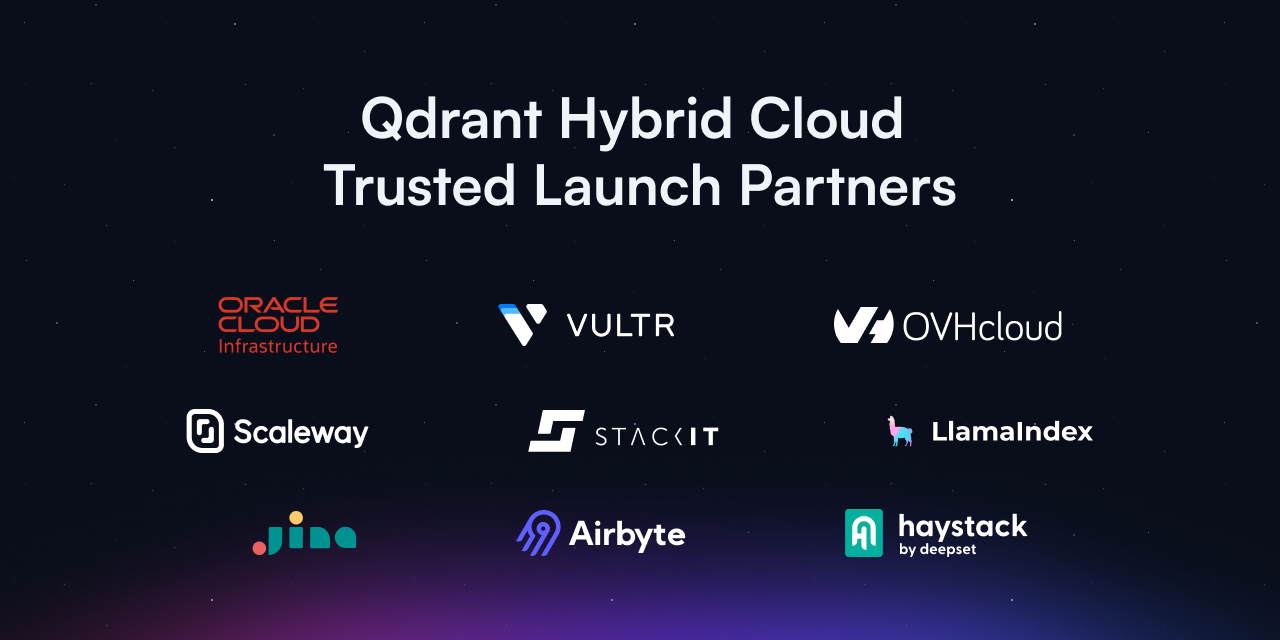
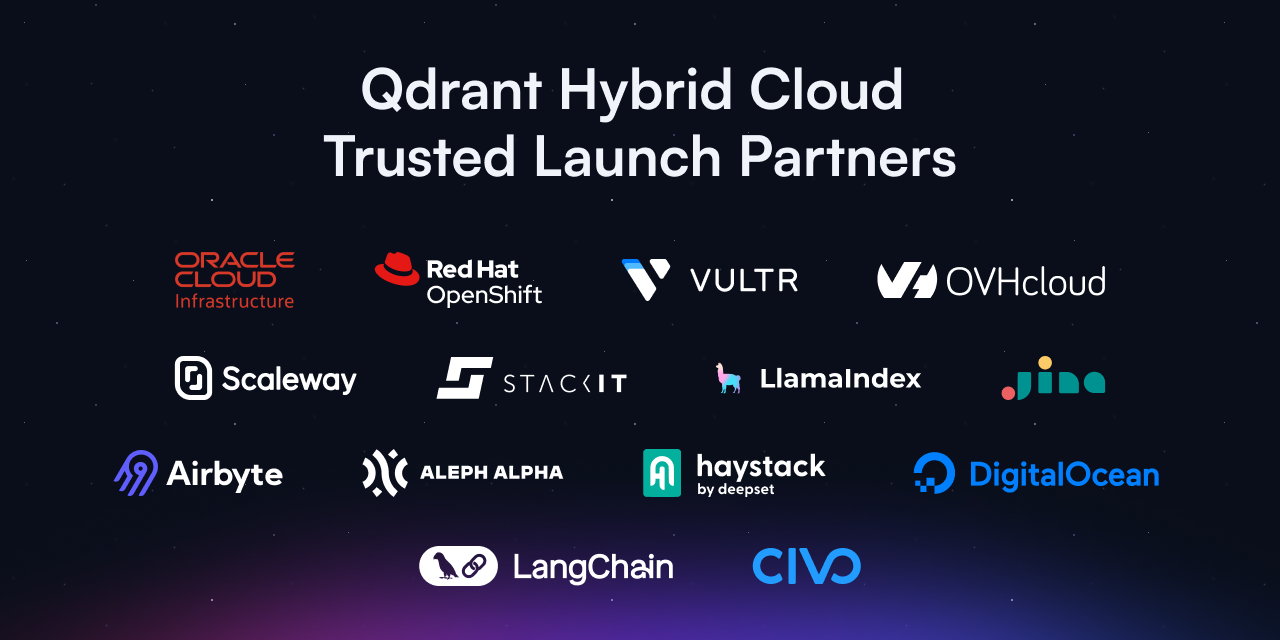
fix blog details and partner images

diff --git a/qdrant-landing/content/blog/hybrid-cloud.md b/qdrant-landing/content/blog/hybrid-cloud.md
@@ -13,7 +13,7 @@ tags:
   - Hybrid Cloud
 ---
 
-We are excited to announce the official launch of **Qdrant Hybrid Cloud** today, a significant leap forward in the field of vector search and enterprise AI. Rooted in our open-source origin, we are committed to offering our users and customers unparalleled control and sovereignty over their data and vector search workloads. Qdrant Hybrid Cloud stands as the industry's first managed vector database that can be deployed in any environment - be it cloud, on-premise, or the edge. 
+We are excited to announce the official launch of [Qdrant Hybrid Cloud](https://hybrid-cloud.qdrant.tech/) today, a significant leap forward in the field of vector search and enterprise AI. Rooted in our open-source origin, we are committed to offering our users and customers unparalleled control and sovereignty over their data and vector search workloads. Qdrant Hybrid Cloud stands as **the industry's first managed vector database that can be deployed in any environment** - be it cloud, on-premise, or the edge. 
 
 <p align="center"><iframe width="560" height="315" src="https://www.youtube.com/embed/gWH2uhWgTvM" title="YouTube video player" frameborder="0" allow="accelerometer; autoplay; clipboard-write; encrypted-media; gyroscope; picture-in-picture; web-share" allowfullscreen></iframe></p>
 
@@ -37,9 +37,9 @@ Let’s explore these aspects in more detail:
 
 Qdrant Hybrid Cloud, powered by our seamless Kubernetes-native architecture, is the first managed vector database engineered for unparalleled deployment flexibility. This means that regardless of where you run your AI applications, you can now enjoy the benefits of a fully managed Qdrant vector database, simplifying operations across any cloud, on-premise, or edge locations. 
 
-For this launch of Qdrant Hybrid Cloud, we are proud to collaborate with key cloud providers, including **Oracle Cloud Infrastructure (OCI)**, [Red Hat OpenShift](/blog/hybrid-cloud-red-hat-openshift/), [Vultr](/blog/hybrid-cloud-vultr/), [DigitalOcean](/blog/hybrid-cloud-digitalocean/), [OVHcloud](/blog/hybrid-cloud-ovhcloud/), [Scaleway](/blog/hybrid-cloud-scaleway/), and [STACKIT](/blog/hybrid-cloud-stackit/). These partnerships underscore our commitment to delivering a versatile and robust vector database solution that meets the complex deployment requirements of today's AI applications.
+For this launch of Qdrant Hybrid Cloud, we are proud to collaborate with key cloud providers, including [Oracle Cloud Infrastructure (OCI)](/documentation/hybrid-cloud/platform-deployment-options/#oracle-cloud-infrastructure), [Red Hat OpenShift](/blog/hybrid-cloud-red-hat-openshift/), [Vultr](/blog/hybrid-cloud-vultr/), [DigitalOcean](/blog/hybrid-cloud-digitalocean/), [OVHcloud](/blog/hybrid-cloud-ovhcloud/), [Scaleway](/blog/hybrid-cloud-scaleway/), [Civo](/documentation/hybrid-cloud/platform-deployment-options/#civo), and [STACKIT](/blog/hybrid-cloud-stackit/). These partnerships underscore our commitment to delivering a versatile and robust vector database solution that meets the complex deployment requirements of today's AI applications.
 
-In addition to our partnerships with key cloud providers, we are also launching in collaboration with renowned AI development tools and framework leaders, including [LlamaIndex](/blog/hybrid-cloud-llamaindex/), **LangChain**, [Airbyte](/blog/hybrid-cloud-airbyte/), [JinaAI](/blog/hybrid-cloud-jinaai/), [Haystack by deepset](/blog/hybrid-cloud-haystack/), and [Aleph Alpha](/blog/hybrid-cloud-aleph-alpha/). These launch partners are instrumental in ensuring our users can seamlessly integrate with essential technologies for their AI applications, enriching our offering and reinforcing our commitment to versatile and comprehensive deployment environments.
+In addition to our partnerships with key cloud providers, we are also launching in collaboration with renowned AI development tools and framework leaders, including [LlamaIndex](/blog/hybrid-cloud-llamaindex/), [LangChain](/blog/hybrid-cloud-langchain), [Airbyte](/blog/hybrid-cloud-airbyte/), [JinaAI](/blog/hybrid-cloud-jinaai/), [Haystack by deepset](/blog/hybrid-cloud-haystack/), and [Aleph Alpha](/blog/hybrid-cloud-aleph-alpha/). These launch partners are instrumental in ensuring our users can seamlessly integrate with essential technologies for their AI applications, enriching our offering and reinforcing our commitment to versatile and comprehensive deployment environments.
 
 Together with our launch partners we have created detailed tutorials that show how to build cutting-edge AI applications with Qdrant Hybrid Cloud on the infrastructure of your choice. These tutorials are available in our [launch partner blog](/blog/hybrid-cloud-launch-partners/). Additionally, you can find expansive [documentation](/documentation/hybrid-cloud/) and instructions on how to [deploy Qdrant Hybrid Cloud](/documentation/hybrid-cloud/hybrid-cloud-setup/).
 
@@ -80,7 +80,7 @@ Explore our [detailed documentation](/documentation/hybrid-cloud/) and [tutorial
 
 ## Launch Partners
 
-Thank you to our launch partners - learn what they have to say about Qdrant Hybrid Cloud:
+We launched Qdrant Hybrid Cloud with assistance and support of our trusted partners. Learn what they have to say about our latest offering:
 
 #### Oracle Cloud Infrastructure: 
 > *"We are excited to partner with Qdrant to bring their powerful vector search capabilities to Oracle Cloud Infrastructure. By offering Qdrant Hybrid Cloud as a managed service on OCI, we are empowering enterprises to harness the full potential of AI-driven applications while maintaining complete control over their data. This collaboration represents a significant step forward in making scalable vector search accessible and manageable for businesses across various industries, enabling them to drive innovation, enhance productivity, and unlock valuable insights from their data."* Dr. Sanjay Basu, Senior Director of Cloud Engineering, AI/GPU Infrastructure at Oracle
@@ -120,11 +120,17 @@ Read more in our [official Haystack by deepset Partner Blog](/blog/hybrid-cloud-
 
 Read more in our [official LlamaIndex Partner Blog](/blog/hybrid-cloud-llamaindex/).
 
-#### ...and many more!
+#### Jina AI:
+> *“The collaboration of Qdrant Hybrid Cloud with Jina AI’s embeddings gives every user the tools to craft a perfect search framework with unmatched accuracy and scalability. It’s a partnership that truly pays off!”* Nan Wang, CTO, Jina AI
 
-We have launched Qdrant Hybrid Cloud with additional reputable partners around the world. Learn more from each of their blogs: 
+Read more in our [official Jina AI Partner Blog](/blog/hybrid-cloud-jinaai/).
+
+#### OVHcloud:
+> *“In the European AI landscape, the partnership between OVHcloud and Qdrant Hybrid Cloud underscores our commitment to innovative, secure AI solutions, empowering startups and enterprises to navigate AI complexities confidently. By emphasizing data sovereignty and security, we enable businesses to leverage vector databases securely."* Yaniv Fdida, Chief Product and Technology Officer
+
+Read more in our [official OVHcloud Partner Blog](/blog/hybrid-cloud-ovhcloud/).
+
+We have also launched Qdrant Hybrid Cloud with the support of **Aleph Alpha** and **STACKIT**. Learn more about our valued partners: 
 
 - **Aleph Alpha:** [Enhance AI Data Sovereignty with Aleph Alpha and Qdrant Hybrid Cloud](/blog/hybrid-cloud-aleph-alpha/)
 - **STACKIT:** [STACKIT and Qdrant Hybrid Cloud for Best Data Privacy](/blog/hybrid-cloud-stackit/)
-- **OVHcloud:** [Qdrant and OVHcloud Bring Vector Search to All Enterprises](/blog/hybrid-cloud-ovhcloud/)
-- **Jina AI:** [Cutting-Edge GenAI with Jina AI and Qdrant Hybrid Cloud](/blog/hybrid-cloud-jinaai/)

diff --git a/qdrant-landing/content/blog/hybrid-cloud-langchain.md b/qdrant-landing/content/blog/hybrid-cloud-langchain.md
@@ -1,0 +1,51 @@
+---
+draft: false
+title: "Developing Advanced RAG Systems with Qdrant Hybrid Cloud and LangChain "
+short_description: "Empowering engineers and scientists globally to easily and securely develop and scale their GenAI applications." 
+description: "Empowering engineers and scientists globally to easily and securely develop and scale their GenAI applications."
+preview_image: /blog/hybrid-cloud-langchain/hybrid-cloud-langchain.png
+date: 2024-04-14T00:04:00Z
+author: Qdrant
+featured: false
+tags:
+  - Qdrant
+  - Vector Database
+---
+
+LangChain and Qdrant are collaborating on the launch of Qdrant Hybrid Cloud, which is designed to empower engineers and scientists globally to easily and securely develop and scale their GenAI applications. Harnessing LangChain’s robust framework, users can unlock the full potential of vector search, enabling the creation of stable and effective AI products. Qdrant Hybrid Cloud extends the same powerful functionality of Qdrant onto a Kubernetes-based architecture, enhancing LangChain’s capability to cater to users across any environment.
+
+Qdrant Hybrid Cloud provides users with the flexibility to deploy their vector database in a preferred environment. Through container-based scalable deployments, companies can leverage cutting-edge frameworks like LangChain while maintaining compatibility with their existing hosting architecture for data sources, embedded models, and LLMs. This potent combination empowers organizations to develop robust and secure applications capable of text-based search, complex question-answering, recommendations and analysis.
+
+Despite LLMs being trained on vast amounts of data, they often lack user-specific or private knowledge. LangChain helps developers build context-aware reasoning applications, addressing this challenge. Qdrant’s vector database sifts through semantically relevant information, enhancing the performance gains derived from LangChain’s data connection features. With LangChain, users gain access to state-of-the-art functionalities for querying, chatting, sorting, and parsing data. Through the seamless integration of Qdrant Hybrid Cloud and LangChain, developers can effortlessly vectorize their data and conduct highly accurate semantic searches—all within their preferred environment.
+
+#### Discover Advanced Integration Options with Qdrant Hybrid Cloud and LangChain
+
+Building apps with Qdrant Hybrid Cloud and LangChain comes with several key advantages:
+
+**Seamless Deployment:** With Qdrant Hybrid Cloud's Kubernetes-native architecture, deploying Qdrant is as simple as a few clicks, allowing you to choose your preferred environment. Coupled with LangChain's flexibility, users can effortlessly create advanced RAG solutions anywhere with minimal effort.
+
+**Open-Source Compatibility:** LangChain and Qdrant support a dependable and mature integration, providing peace of mind to those developing and deploying large-scale AI solutions. With comprehensive documentation, code samples, and tutorials, users of all skill levels can harness the advanced features of data ingestion and vector search to their fullest potential.
+
+**Advanced RAG Performance:** By infusing LLMs with relevant context, Qdrant offers superior results for RAG use cases. Integrating vector search yields improved retrieval accuracy, faster query speeds, and reduced computational overhead. LangChain streamlines the entire process, offering speed, scalability, and efficiency, particularly beneficial for enterprise-scale deployments dealing with vast datasets.
+
+#### Start Building With LangChain and Qdrant Hybrid Cloud: Develop a RAG-Based Employee Onboarding System
+
+To get you started, we’ve put together a tutorial that shows how to create next-gen AI applications with Qdrant Hybrid Cloud using the LangChain framework and Cohere embeddings. 
+
+![hybrid-cloud-langchain-tutorial](/blog/hybrid-cloud-langchain/hybrid-cloud-langchain-tutorial.png)
+
+#### Tutorial: Build a RAG System for Employee Onboarding
+
+We created a comprehensive tutorial to show how you can build a RAG-based system with Qdrant Hybrid Cloud, LangChain and Cohere’s embeddings. This use case is focused on building a question-answering system for employee onboarding. The step-by-step guide illustrates how to route incoming customer questions efficiently - either trying to answer them directly or redirecting them for human intervention while keeping the sensitive data within your premises.
+
+[Try the Tutorial](/documentation/tutorials/natural-language-search-oracle-cloud-infrastructure-cohere-langchain/)
+
+#### Documentation: Deploy Qdrant in a Few Clicks
+
+Our simple Kubernetes-native design lets you deploy Qdrant Hybrid Cloud on your hosting platform of choice in just a few steps. Learn how in our documentation.
+
+[Read Hybrid Cloud Documentation](/documentation/hybrid-cloud/)
+
+#### Ready to Get Started?
+
+Create a [Qdrant Cloud account](https://cloud.qdrant.io/login) and deploy your first **Qdrant Hybrid Cloud** cluster in a few minutes. You can always learn more in the [official release blog](/blog/hybrid-cloud/). 

diff --git a/qdrant-landing/content/blog/hybrid-cloud-launch-partners.md b/qdrant-landing/content/blog/hybrid-cloud-launch-partners.md
@@ -14,13 +14,13 @@ tags:
   - launch partners
 ---
 
-With the launch of Qdrant Hybrid Cloud we provide developers the ability to deploy Qdrant as a managed vector database in any desired environment, be it *in the cloud, on premise, or on the edge*.
+With the launch of [Qdrant Hybrid Cloud](https://hybrid-cloud.qdrant.tech/) we provide developers the ability to deploy Qdrant as a managed vector database in any desired environment, be it *in the cloud, on premise, or on the edge*.
 
 We are excited to have trusted industry players support the launch of Qdrant Hybrid Cloud, allowing developers to unlock best-in-class advantages for building production-ready AI applications:
 
-- **Deploy In Your Own Environment:** Deploy the Qdrant vector database as a managed service on the infrastructure of choice, such as our launch partner solutions **Oracle Cloud Infrastructure (OCI)**, [Red Hat OpenShift](/blog/hybrid-cloud-red-hat-openshift/), [Vultr](/blog/hybrid-cloud-vultr/), [DigitalOcean](/blog/hybrid-cloud-digitalocean/), [OVHcloud](/blog/hybrid-cloud-ovhcloud/), [Scaleway](/blog/hybrid-cloud-scaleway/), and [STACKIT](/blog/hybrid-cloud-stackit/).
+- **Deploy In Your Own Environment:** Deploy the Qdrant vector database as a managed service on the infrastructure of choice, such as our launch partner solutions [Oracle Cloud Infrastructure (OCI)](/documentation/hybrid-cloud/platform-deployment-options/#oracle-cloud-infrastructure), [Red Hat OpenShift](/blog/hybrid-cloud-red-hat-openshift/), [Vultr](/blog/hybrid-cloud-vultr/), [DigitalOcean](/blog/hybrid-cloud-digitalocean/), [OVHcloud](/blog/hybrid-cloud-ovhcloud/), [Scaleway](/blog/hybrid-cloud-scaleway/), [Civo](/documentation/hybrid-cloud/platform-deployment-options/#civo), and [STACKIT](/blog/hybrid-cloud-stackit/).
 
-- **Seamlessly Integrate with Every Key Component of the Modern AI Stack:** Our new hybrid cloud offering also allows you to integrate with all of the relevant solutions for building AI applications. These include partner frameworks like [LlamaIndex](/blog/hybrid-cloud-llamaindex/), **LangChain**, [Haystack by deepset](/blog/hybrid-cloud-haystack/), and [Airbyte](/blog/hybrid-cloud-airbyte/), as well as large language models (LLMs) like [JinaAI](/blog/hybrid-cloud-jinaai/) and [Aleph Alpha](/blog/hybrid-cloud-aleph-alpha/).
+- **Seamlessly Integrate with Every Key Component of the Modern AI Stack:** Our new hybrid cloud offering also allows you to integrate with all of the relevant solutions for building AI applications. These include partner frameworks like [LlamaIndex](/blog/hybrid-cloud-llamaindex/), [LangChain](/blog/hybrid-cloud-langchain]), [Haystack by deepset](/blog/hybrid-cloud-haystack/), and [Airbyte](/blog/hybrid-cloud-airbyte/), as well as large language models (LLMs) like [JinaAI](/blog/hybrid-cloud-jinaai/) and [Aleph Alpha](/blog/hybrid-cloud-aleph-alpha/).
 
 - **Ensure Full Data Sovereignty and Privacy Control:** Qdrant Hybrid Cloud offers unparalleled data isolation and the flexibility to process workloads either in the cloud or on-premise, ensuring data privacy and sovereignty requirements - all while being fully managed.
 
@@ -93,11 +93,12 @@ Additionally, we built comprehensive documentation tutorials on how to successfu
 - [How to Deploy Qdrant on STACKIT](/documentation/hybrid-cloud/platform-deployment-options/#stackit)
 - [How to Deploy Qdrant on Red Hat OpenShift](/documentation/hybrid-cloud/platform-deployment-options/#redhat-openshift)
 - [How to Deploy Qdrant on Linode](/documentation/hybrid-cloud/platform-deployment-options/#akamai-linode)
+- [How to Deploy Qdrant on Civo](/documentation/hybrid-cloud/platform-deployment-options/#civo)
 
 #### Get Started Now!
 
-Qdrant Hybrid Cloud marks a significant advancement in vector databases, offering the most flexible way to implement vector search. 
+[Qdrant Hybrid Cloud](https://hybrid-cloud.qdrant.tech/) marks a significant advancement in vector databases, offering the most flexible way to implement vector search. 
 
-You can test out Qdrant Hybrid Cloud today! Simply sign up for or log into your [Qdrant Cloud account](https://cloud.qdrant.io/login) and get started in the **Hybrid Cloud** section. Also, to learn more about Qdrant Hybrid Cloud read our [Official Release Blog](/blog/hybrid-cloud/) or our Qdrant Hybrid Cloud website. For additional technical insights, please read our [documentation](/documentation/hybrid-cloud/).
+You can test out Qdrant Hybrid Cloud today! Simply sign up for or log into your [Qdrant Cloud account](https://cloud.qdrant.io/login) and get started in the **Hybrid Cloud** section. Also, to learn more about Qdrant Hybrid Cloud read our [Official Release Blog](/blog/hybrid-cloud/) or our [Qdrant Hybrid Cloud website](https://hybrid-cloud.qdrant.tech/). For additional technical insights, please read our [documentation](/documentation/hybrid-cloud/).
 
 [![hybrid-cloud-get-started](/blog/hybrid-cloud-launch-partners/hybrid-cloud-get-started.png)](https://cloud.qdrant.io/login)

diff --git a/qdrant-landing/content/documentation/examples/rag-chatbot-scaleway.md b/qdrant-landing/content/documentation/examples/rag-chatbot-scaleway.md
@@ -65,7 +65,7 @@ Initialize the language model:
 llm = ChatOpenAI(model="gpt-3.5-turbo-0125")
 ```
 
-It is here that we configure both the Embeddings and LLM. You can replace this with your own models using Ollama or other services. Scaleway has some great [GPU Instances](https://www.scaleway.com/en/gpu-instances/) too - including H100 on the higher end, and soon L4 for everything small.
+It is here that we configure both the Embeddings and LLM. You can replace this with your own models using Ollama or other services. Scaleway has some great [L4 GPU Instances](https://www.scaleway.com/en/l4-gpu-instance/) you can use for compute here.
 
 ## Download and parse data
 
@@ -140,7 +140,7 @@ We built a solid foundation for a simple chatbot, but there is still a lot to do
 system production-ready, you should consider implementing the mechanism into your existing stack. We recommend 
 
 Our vector database can easily be hosted on [Scaleway](https://www.scaleway.com/), our trusted [Qdrant Hybrid Cloud](/documentation/hybrid-cloud/) partner. This means that Qdrant can be run from your Scaleway region, but the database itself can still be managed from within Qdrant Cloud's interface. Both products have been tested for compatibility and scalability, and we recommend their [managed Kubernetes](https://www.scaleway.com/en/kubernetes-kapsule/) service. 
-Their French deployment regions e.g. France are excellent for network latency and data sovereignty. For hosted GPUs, try [rendering with P100](https://www.scaleway.com/en/gpu-render-instances/).
+Their French deployment regions e.g. France are excellent for network latency and data sovereignty. For hosted GPUs, try [rendering with L4 GPU instances](https://www.scaleway.com/en/l4-gpu-instance/).
 
 If you have any questions, feel free to ask on our [Discord community](https://qdrant.to/discord).
 

diff --git a/qdrant-landing/content/blog/hybrid-cloud-ovhcloud.md b/qdrant-landing/content/blog/hybrid-cloud-ovhcloud.md
@@ -16,6 +16,8 @@ With the official release of Qdrant Hybrid Cloud, businesses running their data 
 
 Deploying Qdrant Hybrid Cloud on OVHcloud's infrastructure represents a significant leap for European businesses invested in AI-driven projects, as this collaboration underscores the commitment to meeting the rigorous requirements for data privacy and control of European startups and enterprises building AI solutions. As businesses are progressing on their AI journey, they require dedicated solutions that allow them to make their data accessible for machine learning and AI projects, without having it leave the company's security perimeter. Prioritizing data sovereignty, a crucial aspect in today's digital landscape, will help startups and enterprises accelerate their AI agenda’s and build even more differentiating AI-enabled applications. The ability of running Qdrant Hybrid Cloud on OVHcloud not only underscores the commitment to innovative, secure AI solutions but also ensures that companies can navigate the complexities of AI and machine learning workloads with the flexibility and security required.
 
+> *“In the European AI landscape, the partnership between OVHcloud and Qdrant Hybrid Cloud underscores our commitment to innovative, secure AI solutions, empowering startups and enterprises to navigate AI complexities confidently. By emphasizing data sovereignty and security, we enable businesses to leverage vector databases securely."*  Yaniv Fdida, Chief Product and Technology Officer
+
 #### Qdrant & OVHcloud: High Performance Vector Search With Full Data Control
 
 Through the seamless integration between Qdrant Hybrid Cloud and OVHcloud, developers and businesses are able to deploy the fully managed vector database within their existing OVHcloud setups in minutes, enabling faster, more accurate AI-driven insights.

diff --git a/qdrant-landing/content/blog/hybrid-cloud-jinaai.md b/qdrant-landing/content/blog/hybrid-cloud-jinaai.md
@@ -18,6 +18,8 @@ Retrieval Augmented Generation (RAG) is broadly adopted as the go-to Generative 
 
 With Qdrant Hybrid Cloud, users have the flexibility to deploy their vector database in an environment of their choice. By using container-based scalable deployments, global businesses can keep both products deployed in the same hosting architecture. By combining Jina AI’s models with Qdrant’s vector search capabilities, developers can create robust and scalable applications tailored to meet the demands of modern enterprises. This combination allows organizations to build strong and secure Generative AI solutions.
 
+> *“The collaboration of Qdrant Hybrid Cloud with Jina AI’s embeddings gives every user the tools to craft a perfect search framework with unmatched accuracy and scalability. It’s a partnership that truly pays off!”* Nan Wang, CTO, Jina AI
+
 #### Benefits of Qdrant’s Vector Search With Jina AI Embeddings in Enterprise RAG Scenarios
 
 Building apps with Qdrant Hybrid Cloud and Jina AI’s embeddings comes with several key advantages:
